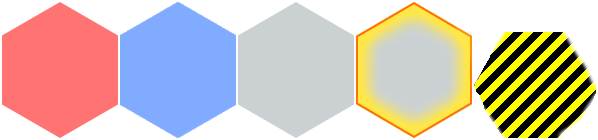
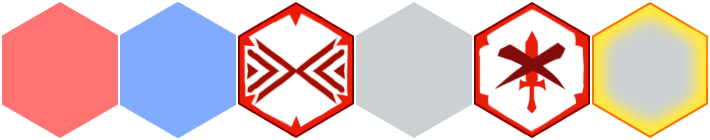
Agrega los hexagonos para not_able_to_attack y _attack_center_target.
CellHelper: Carga el nuevo pack.

diff --git a/CrystalClash/CrystalClash/src/com/crystalclash/renders/helpers/CellHelper.java b/CrystalClash/CrystalClash/src/com/crystalclash/renders/helpers/CellHelper.java
@@ -20,12 +20,12 @@ public class CellHelper {
 
 	TextureRegion none;
 	TextureRegion able_to_attack;
+	TextureRegion not_able_to_attack;
 	TextureRegion able_to_move;
 	TextureRegion able_to_place;
 
 	TextureRegion attack_target_center;
 	TextureRegion attack_target_radius;
-	TextureRegion path;
 
 	TextureRegion selected;
 
@@ -35,10 +35,11 @@ public class CellHelper {
 
 		none = skin.getRegion("none");
 		able_to_attack = skin.getRegion("able_to_attack");
+		not_able_to_attack = skin.getRegion("not_able_to_attack");
 		able_to_move = skin.getRegion("able_to_move");
 		able_to_place = skin.getRegion("able_to_move");
-		attack_target_center = skin.getRegion("selected");// skin.getRegion("attack_target_center");
-		attack_target_radius = skin.getRegion("selected");// skin.getRegion("attack_target_center");
+		attack_target_center = skin.getRegion("attack_target_center");// skin.getRegion("attack_target_center");
+		attack_target_radius = skin.getRegion("attack_target_center");// skin.getRegion("attack_target_center");
 		selected = skin.getRegion("selected");
 	}
 
@@ -47,8 +48,6 @@ public class CellHelper {
 			batch.draw(able_to_move, cell.getX(), cell.getY());
 		} else if (cell.hasState(Cell.ABLE_TO_ATTACK)) {
 			batch.draw(able_to_attack, cell.getX(), cell.getY());
-		} else if (cell.hasState(Cell.ABLE_TO_MOVE)) {
-			batch.draw(able_to_move, cell.getX(), cell.getY());
 		} else if (cell.hasState(Cell.ABLE_TO_PLACE)) {
 			batch.draw(able_to_place, cell.getX(), cell.getY());
 		} else {
@@ -56,7 +55,7 @@ public class CellHelper {
 		}
 
 		if (cell.hasState(Cell.NOT_ABLE_TO_ATTACK)) {
-			batch.draw(selected, cell.getX(), cell.getY());
+			batch.draw(not_able_to_attack, cell.getX(), cell.getY());
 		}
 		if (cell.hasState(Cell.ATTACK_TARGET_CENTER)) {
 			batch.draw(attack_target_center, cell.getX(), cell.getY());
